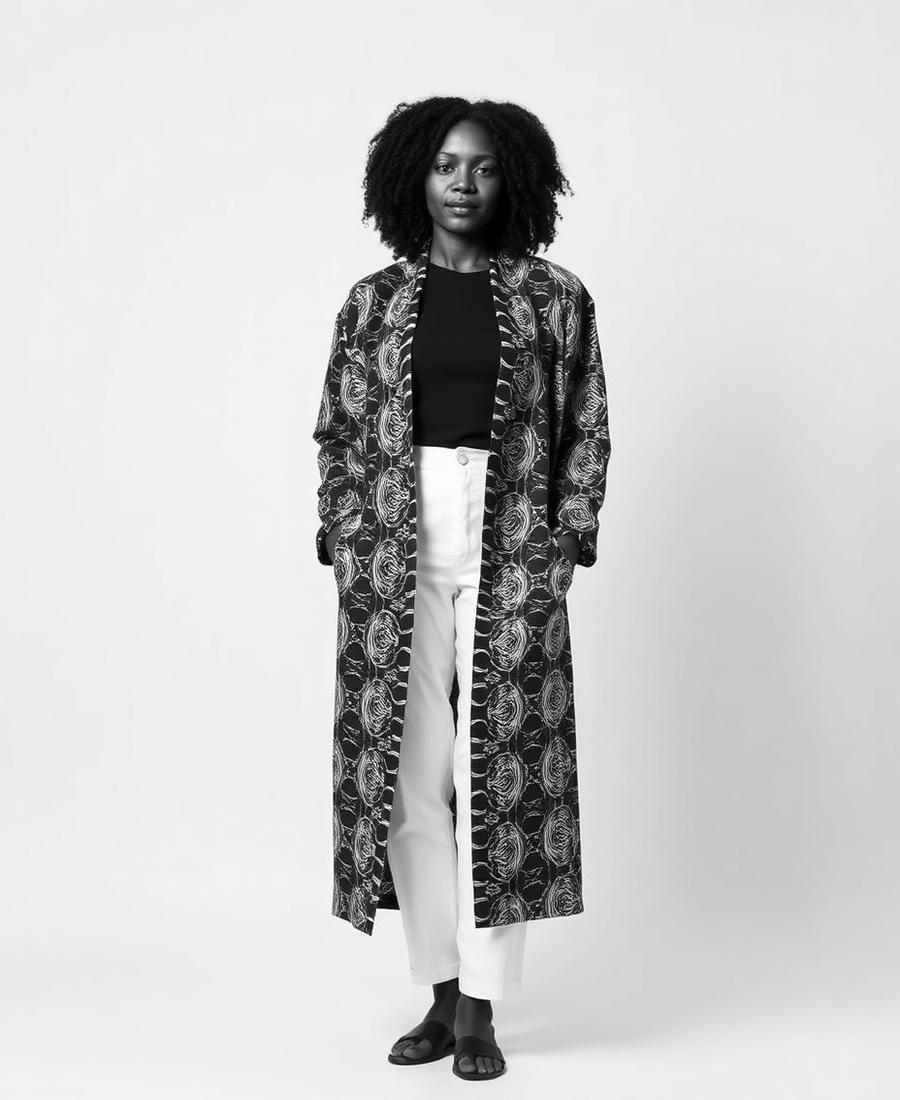
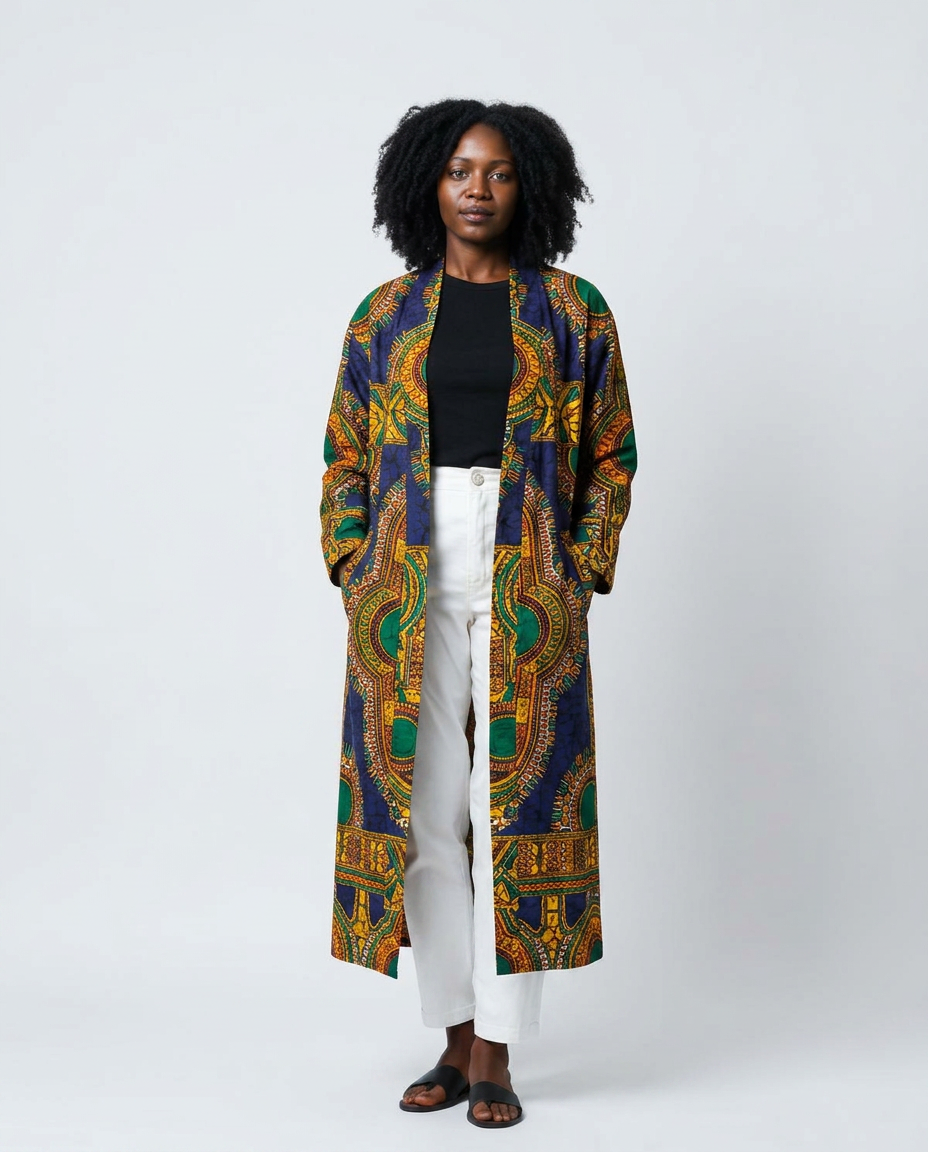
Changes

Changed region(s): [[0.3422, 0.0618, 0.6844, 0.9891]]

diff --git a/src/lib/products.ts b/src/lib/products.ts
@@ -577,7 +577,7 @@ export const products: Product[] = [
   {
     id: "nyamira-duster-coat",
     name: "Nyamira Duster Coat",
-    subtitle: "Monochrome long duster",
+    subtitle: "Colorful printed long duster",
     price: 5900,
     image: nyamiraDusterCoat,
     category: "Women",
